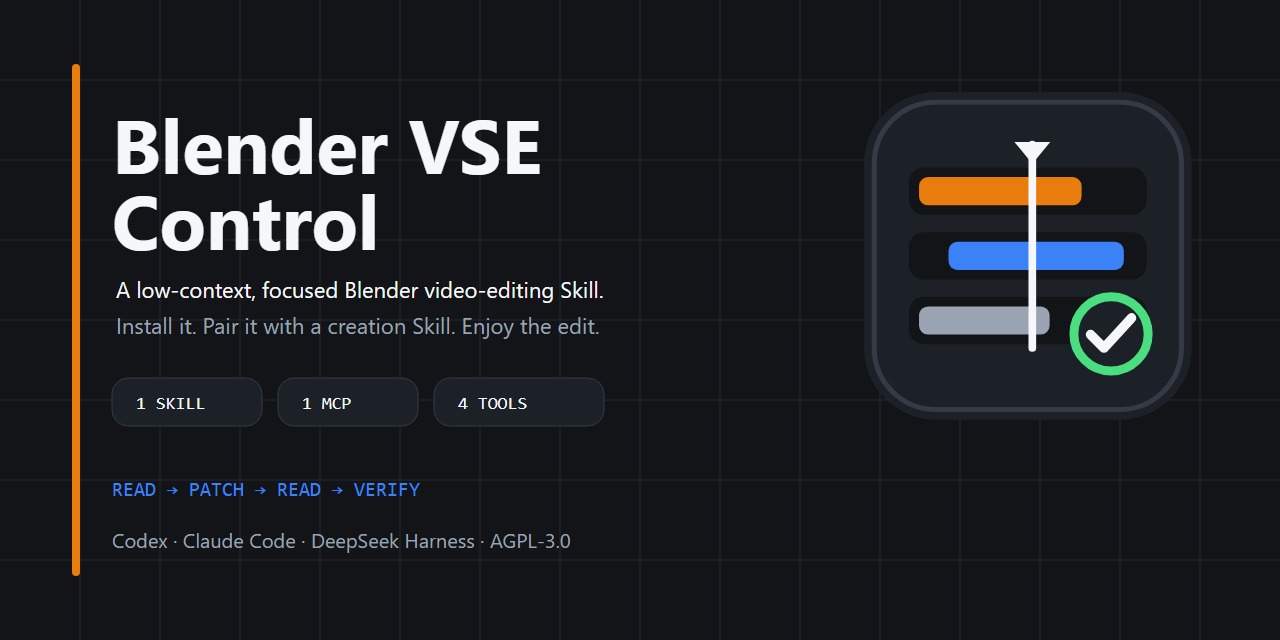
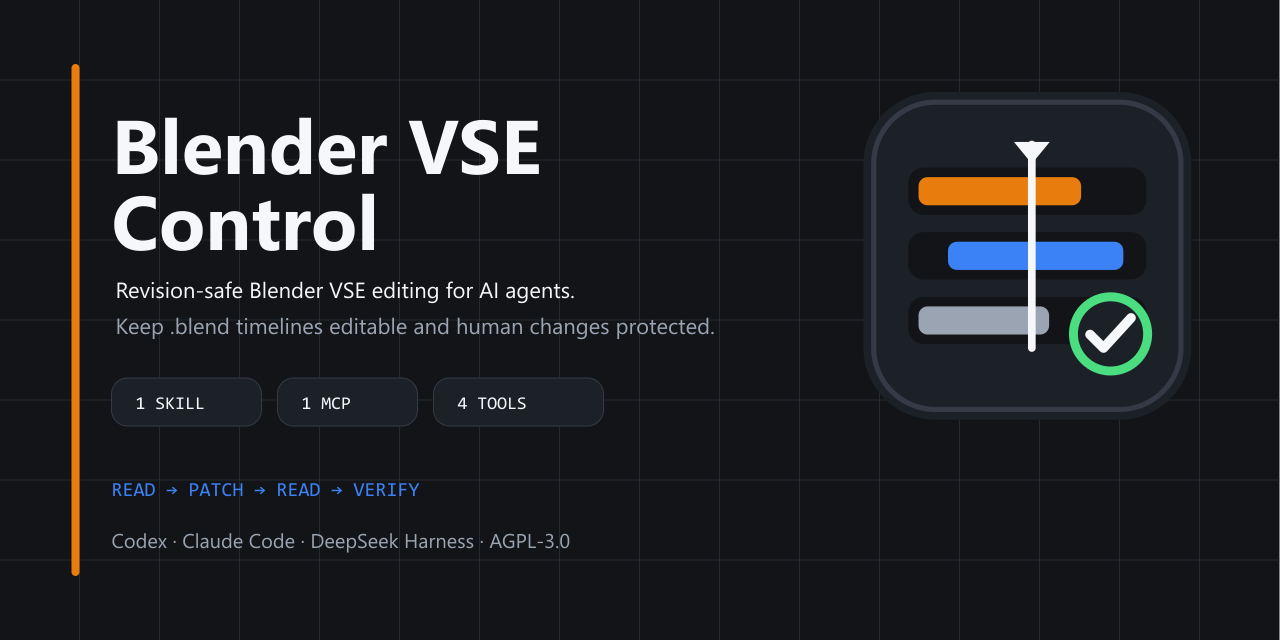
Release revision-safe Blender VSE positioning

diff --git a/tests/integration/smoke_workflow.py b/tests/integration/smoke_workflow.py
@@ -150,7 +150,7 @@ def main() -> None:
         [
             {
                 "op": "set_text",
-                "video_ai_id": title["video_ai_id"],
+                "target": title["name"],
                 "text": "Smoke title updated",
             }
         ],

diff --git a/README_zh-CN.md b/README_zh-CN.md
@@ -4,11 +4,11 @@
 
 ![Blender VSE Control：具有修订保护的可编辑时间线](assets/social-preview_zh-CN.png)
 
-> 这是一个低上下文占用的、纯粹的blender视频编辑skill，安装它，搭配创作skill，开始享受你的剪辑。
+> 让 AI Agent 在 Blender 中剪片，同时保持时间线可见、可编辑、由你掌控。
 
-这是一个面向 Blender Video Sequence Editor 的类型化、带修订保护的 Python 控制
-层。应用程序或智能体可以与用户在可见时间线中协作，同时让 `.blend` 始终作为事实
-源，并保护人工修改不被静默覆盖。
+Blender VSE Control 是面向 Blender Video Sequence Editor 的本地、类型化、修订安全
+工程控制层。应用程序或 Agent 可以检查、编辑、续作和渲染明确指定的 `.blend`
+时间线，并验证其持久化；文件始终是事实源，人工修改不会被静默覆盖。
 
 > 状态：Alpha。当前主要验证目标为 Blender 5.1。内置 Bridge 的元数据声明支持
 > Blender 4.2+，但正式兼容范围只以各版本发布说明中的实测结果为准。
@@ -35,7 +35,8 @@
 - **原子编辑：**一组命令只提交一个修订；失败时整体回滚。
 - **可见协作：**交互编辑前必须证明 Blender GUI、目标项目、VSE 时间线与预览均
   可用。
-- **可恢复结果：**`.blend` 是唯一事实源，最终验证会用新 Blender 进程重新打开。
+- **持久化证据：**最终验证会在新 Blender 进程中重新打开作为事实源的 `.blend`，
+  检查已保存的结构事实；它不会检查渲染帧，也不判断视觉或创意是否正确。
 - **有限操作面：**调用方只能选择登记过的操作，不能传入任意 Python。
 - **有界上下文：**读取默认只返回摘要；range/detail 通过分页和可选字段控制进入
   Agent 上下文的数据量；写入、验证与错误回执同样具有字节预算。
@@ -125,9 +126,11 @@ blender-vse verify ./projects/demo.blend
 
 ## 项目边界
 
-本仓库负责 Blender 执行、时间线操作、修订安全与持久化验证；不负责下载、转码、
-代理编码、项目级资产数据库或特定智能体框架。外部系统通过类型化操作和
-[代理清单协议](src/blender_vse/schemas/proxy-manifest.schema.json)接入。
+本仓库负责 Blender 执行、白名单时间线操作、修订安全与持久化验证。它可以验证并
+附加外部生成的[代理清单](src/blender_vse/schemas/proxy-manifest.schema.json)，但不生成
+或搜集源素材，不下载或转码媒体，不编码或重建代理，不自动化通用 Blender 3D 工作或
+任意 `bpy`，不维护项目级资产数据库，也不提供 Agent 框架。附加代理不会改变原始
+源路径，最终渲染仍使用源媒体。
 
 ## 许可证
 

diff --git a/README.md b/README.md
@@ -4,12 +4,13 @@
 
 ![Blender VSE Control — revision-safe editable timelines](assets/social-preview.png)
 
-> A low-context, focused Blender video-editing Skill. Install it, pair it with a
-> creation Skill, and enjoy the edit.
+> Let AI agents edit in Blender while the timeline stays visible, editable,
+> and under your control.
 
-A typed, revision-safe Python control layer for Blender's Video Sequence
-Editor. Applications and agents can edit the visible timeline while the
-`.blend` file remains the source of truth and manual edits remain protected.
+Blender VSE Control is a local, typed, revision-safe control layer for
+Blender's Video Sequence Editor. Applications and agents can inspect, edit,
+continue, render, and verify persistence for named `.blend` timelines while
+the file remains the source of truth and human changes stay protected.
 
 > Status: alpha. Blender 5.1 is the primary verified target. The bundled bridge
 > declares Blender 4.2+ compatibility, but release claims are based only on
@@ -43,8 +44,9 @@ should not need to edit client manifests by hand.
 - **Atomic edits:** a command list commits one revision or rolls back.
 - **Visible collaboration:** interactive edits require a proven Blender GUI,
   project identity, VSE timeline, and preview.
-- **Recoverable output:** the `.blend` is canonical; final verification reopens
-  it in a fresh Blender process.
+- **Persistence evidence:** final verification reopens the canonical `.blend`
+  in a fresh Blender process and checks saved structural facts. It does not
+  inspect frames or judge visual or creative correctness.
 - **Bounded surface:** callers select catalogued operations, never free-form
   Python.
 - **Bounded context:** reads default to summaries; range/detail pages disclose
@@ -142,11 +144,14 @@ rules are in [Testing](docs/testing.md).
 
 ## Project boundary
 
-This repository owns Blender execution, timeline operations, revision safety,
-and persistence verification. It does not own downloaders, transcoders, proxy
-encoding, project-wide asset databases, or an agent framework. Those systems
-integrate through typed operations and the
-[external proxy manifest](src/blender_vse/schemas/proxy-manifest.schema.json).
+This repository owns Blender execution, allowlisted timeline operations,
+revision safety, and persistence verification. It validates externally
+generated [proxy manifests](src/blender_vse/schemas/proxy-manifest.schema.json)
+for attachment; it does not generate or source media, download or transcode
+media, encode or rebuild proxies, automate general Blender 3D work or arbitrary
+`bpy`, own a project-wide asset database, or provide an agent framework. Proxy
+attachment preserves the original source path, and final rendering still uses
+source media.
 
 ## License
 

diff --git a/skills/blender-vse/SKILL_zh-CN.md b/skills/blender-vse/SKILL_zh-CN.md
@@ -2,7 +2,11 @@
 
 [English version](SKILL.md)
 
-本 Skill 通过四个带修订保护的 Blender MCP 工具，执行低上下文、聚焦的视频编辑与验证。适用于 `.blend` 时间线、片段、字幕、音频、代理、渲染、检查点和续作任务；生成源素材时可搭配创作 Skill。不要用于一次性纯 FFmpeg 编辑，也不要执行任意 Blender Python。
+当明确指定的 `.blend` Video Sequence Editor 工程是事实源或必要的可编辑交付物时，
+使用本 Skill。它通过四个有界、修订安全的本地 MCP 工具安全检查、编辑、续作和渲染
+时间线，附加外部生成的代理，并验证持久化，同时保护人工修改。生成源素材时可搭配
+创作 Skill。不要用于通用视频创作、代理编码、一次性 FFmpeg 任务、Blender 3D 工作
+或任意 `bpy`。
 
 把明确指定的 `.blend` 文件视为可编辑事实源。只使用 `blender_read`、`blender_patch`、`blender_acknowledge` 和 `blender_verify`，绝不能用原始 `bpy`、Shell 驱动 Blender 脚本或隐藏无头编辑器代替。
 
@@ -13,6 +17,8 @@
 - 要求显式 `.blend` 路径，不扫描文件系统寻找项目。
 - 四个工具不可用时停止，并说明必须安装和配置本地 MCP 服务。不得用任意 Python 模仿。
 - 路径位于已配置根目录之外属于授权/配置问题，不移动或复制项目来规避。
+- 代理编码与重建在本控制层之外完成。`attach_proxy` 只验证并附加已经生成的清单；
+  附加不会改变源媒体，最终渲染仍使用原始媒体。
 - 只有用户明确要求创建准确项目时，才设置 `create_if_missing=true`。检查和续作绝不隐式创建缺失文件。
 
 ## 选择工作流
@@ -54,4 +60,8 @@
 
 ## 完成条件
 
-只有 Patch 后读取符合预期时间线，且 `blender_verify` 确认持久化，编辑才算完成。报告项目路径、已应用编辑、返回时的最终已验证修订/哈希、输出路径，以及任何警告或未决选择。API 返回成功本身不能证明请求的视觉结果或渲染正确。
+只有 Patch 后读取符合预期时间线，且 `blender_verify` 确认持久化，时间线变更才算可靠
+写入。`blender_verify` 只证明其报告的持久化结构事实，包括场景绑定、可见性与可选
+片段计数；它不会检查渲染帧，也不能证明视觉或创意正确。对明确要求视觉效果的任务，
+必须单独审看预览或成片后才能报告完成。报告项目路径、已应用编辑、返回时的最终修订/
+哈希、输出路径，以及任何警告或未决选择。

diff --git a/skills/blender-vse/SKILL.md b/skills/blender-vse/SKILL.md
@@ -1,11 +1,12 @@
 ---
 name: blender-vse
 description: >-
-  Low-context, focused Blender video editing and verification through the four
-  revision-safe Blender MCP tools. Use for .blend timeline, strip, subtitle,
-  audio, proxy, render, checkpoint, or continuation tasks; pair with creation
-  Skills when generating source media, and do not use for one-off FFmpeg-only
-  edits or arbitrary Blender Python.
+  Use when a named .blend Video Sequence Editor project is the source of truth
+  or required editable deliverable. Safely inspect, edit, continue, render,
+  attach externally generated proxies, and verify persistence through four
+  bounded, revision-safe local MCP tools while preserving human changes. Pair
+  with creation Skills for source media. Do not use for generic video creation,
+  proxy encoding, one-off FFmpeg work, Blender 3D work, or arbitrary bpy.
 ---
 
 [Chinese version](SKILL_zh-CN.md)
@@ -32,6 +33,9 @@ editor for these tools.
   must be installed and configured. Do not imitate it with arbitrary Python.
 - A path outside configured roots is an authorization/configuration issue. Do
   not move or copy the project to evade it.
+- Proxy encoding and rebuilding are external. `attach_proxy` only validates and
+  attaches an already-generated manifest; attachment does not change source
+  media, and final rendering still uses it.
 - Set `create_if_missing=true` only when the user asked to create that exact
   project. Inspection and continuation never create a missing file implicitly.
 
@@ -98,8 +102,11 @@ a new targeted observation before any mutation.
 
 ## Completion
 
-An edit is complete only when a post-patch read matches the intended timeline
-and `blender_verify` confirms persistence. Report the project path, applied
-editorial changes, final verified revision/hash when returned, output paths,
-and any warnings or unresolved choices. An API success alone is not evidence
-that a requested visual result or render is correct.
+A timeline change is durably applied only when a post-patch read matches the
+intended timeline and `blender_verify` confirms persistence. `blender_verify`
+proves only the persisted structural facts it reports, including scene
+binding, visibility, and optional strip counts. It does not inspect rendered
+frames or prove visual or creative correctness. Review a preview or render
+separately before reporting a visually specified outcome complete. Report the
+project path, applied changes, final revision/hash when returned, output paths,
+and any warnings or unresolved choices.

diff --git a/docs/index_zh-CN.md b/docs/index_zh-CN.md
@@ -2,7 +2,13 @@
 
 [English documentation](index.md)
 
-本页是独立中文文档入口。英文主文档与中文镜像通过契约测试保持配对，正文不在同一文件中混排。
+Blender VSE Control 是面向 Agent 协同剪辑的本地、修订安全工程控制层，服务于持久、
+可编辑的 `.blend` 时间线。Blender 始终保有可编辑事实源，每次写入基于最新观察，
+避免 Agent 静默覆盖人工修改。
+
+代理编码与重建不属于本项目；本项目只验证并附加外部生成的代理清单。
+`blender_verify` 在新进程重新打开工程后确认已保存的结构事实，不判断视觉质量或创意
+正确性。本页是独立中文文档入口，英文主文档与中文镜像通过契约测试保持配对。
 
 ## 使用项目
 

diff --git a/docs/index.md b/docs/index.md
@@ -2,8 +2,15 @@
 
 [Chinese documentation](index_zh-CN.md)
 
-This page is the stable entry point for Blender VSE Control documentation.
-The root [README](../README.md) stays short; detailed contracts live here.
+Blender VSE Control is the local, revision-safe control layer for agent-assisted
+editing of persistent `.blend` timelines. Blender remains the editable source
+of truth, and fresh observations prevent silent overwrite of human changes.
+
+Proxy encoding and rebuilding stay outside the project; it only validates and
+attaches externally generated proxy manifests. `blender_verify` confirms saved
+structural facts after a fresh reopen, not visual quality or creative
+correctness. The root [README](../README.md) stays short; detailed contracts
+live here.
 
 ## Use the project
 

diff --git a/CHANGELOG.md b/CHANGELOG.md
@@ -2,7 +2,16 @@
 
 [Chinese version](CHANGELOG_zh-CN.md)
 
-## 0.1.0
+## 0.1.0 - 2026-09-04
+
+- Repositioned the project around local, revision-safe agent editing of
+  persistent `.blend` timelines, with bounded context as a supporting guarantee.
+- Expanded package and plugin discovery metadata for Blender VSE, AI video
+  editing, MCP, NLE, agent Skills, revision safety, and local-first workflows.
+- Fixed the public GUI smoke workflow to pass the observed strip name required
+  by `set_text` while retaining the stable strip ID for follow-up reads.
+- Added the missing distribution-content verification command to the release
+  checklist.
 
 - Standalone Blender VSE control package and CLI.
 - Revision-safe read, patch, acknowledge, and verify workflow.

diff --git a/CHANGELOG_zh-CN.md b/CHANGELOG_zh-CN.md
@@ -2,7 +2,14 @@
 
 [English version](CHANGELOG.md)
 
-## 0.1.0
+## 0.1.0 - 2026-09-04
+
+- 统一定位为面向持久 `.blend` 时间线的本地、修订安全 Agent 剪辑；有界上下文作为
+  支撑保证，不再作为产品类别本身。
+- 扩展包与插件的发现关键词，覆盖 Blender VSE、AI 视频编辑、MCP、NLE、Agent Skill、
+  修订安全与本地优先工作流。
+- 修复公开 GUI 冒烟流程：`set_text` 使用已观察到的片段名，后续读取仍使用稳定片段 ID。
+- 在发布清单中补充缺失的分发内容校验命令。
 
 - 独立 Blender VSE 控制包与 CLI。
 - 带修订保护的 read、patch、acknowledge 与 verify 工作流。

diff --git a/RELEASING_zh-CN.md b/RELEASING_zh-CN.md
@@ -40,6 +40,7 @@ python scripts/build_plugin.py --check
 
 ```bash
 python -m build
+python tests/verify_distribution.py dist
 ```
 
 - [ ] 源码归档包含中英文文档、测试、测试计划 JSON、许可证、已验证的 Skill 和生成的命令索引。

diff --git a/RELEASING.md b/RELEASING.md
@@ -46,6 +46,7 @@ python scripts/build_plugin.py --check
 
 ```bash
 python -m build
+python tests/verify_distribution.py dist
 ```
 
 - [ ] The source archive contains bilingual docs, tests, test-plan JSON,
